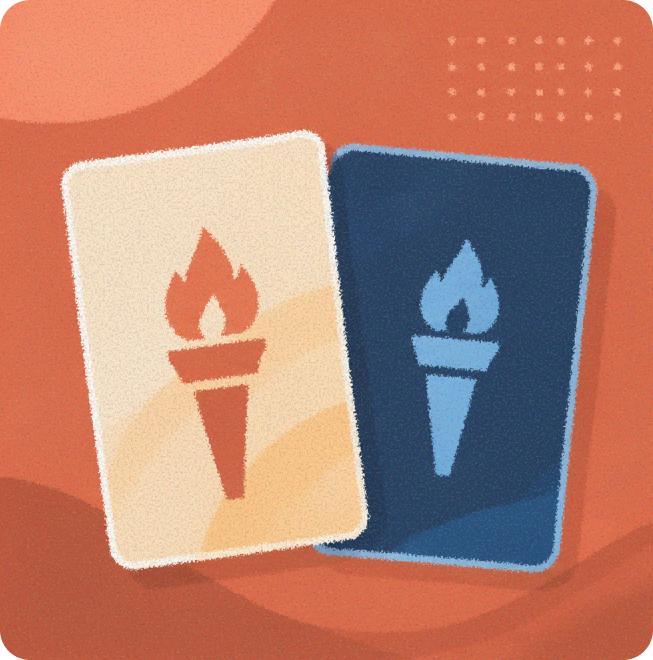
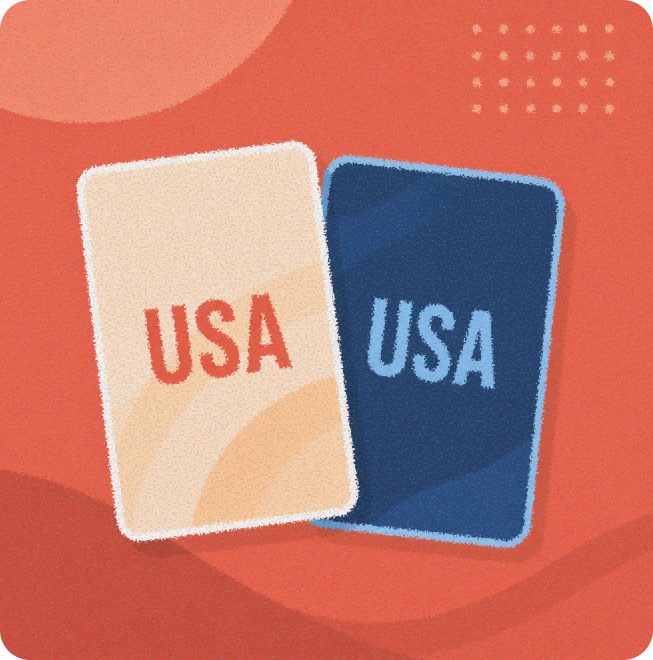
hero image

diff --git a/src/styles.css b/src/styles.css
@@ -3561,10 +3561,94 @@ select {
 
 .landing-hero {
   padding: clamp(64px, 9vw, 100px) 0;
-  background:
-    radial-gradient(circle at 20% 30%, var(--paper-accent-a), transparent 42rem),
-    radial-gradient(circle at 82% 60%, var(--paper-accent-b), transparent 36rem),
-    var(--paper-2);
+  background: var(--surface);
+}
+
+.landing-hero .landing-section-inner {
+  max-width: none;
+  padding: 0;
+}
+
+.landing-hero-container {
+  position: relative;
+  width: 90vw;
+  margin: 0 auto;
+  border-radius: 28px;
+  overflow: hidden;
+  min-height: clamp(320px, 36vw, 520px);
+}
+
+.landing-hero-graphic {
+  position: absolute;
+  inset: 0;
+  width: 100%;
+  height: 100%;
+  object-fit: cover;
+  object-position: right center;
+  display: block;
+}
+
+.landing-hero-content {
+  position: relative;
+  z-index: 1;
+  display: flex;
+  flex-direction: column;
+  align-items: flex-start;
+  background: rgba(235, 224, 199, 0.88);
+  border: 1.5px solid #EBE0C7;
+  border-radius: 18px;
+  padding: clamp(24px, 3.5vw, 44px) clamp(20px, 3vw, 40px);
+  backdrop-filter: blur(4px);
+  margin: clamp(28px, 5vw, 52px) clamp(24px, 5vw, 52px);
+  max-width: min(50%, 520px);
+}
+
+.landing-hero-content .landing-eyebrow {
+  color: #5a6060;
+  margin-bottom: 12px;
+}
+
+.landing-hero-content .landing-hero-title {
+  color: #131a1a;
+  max-width: 14ch;
+}
+
+.landing-hero-content .landing-hero-body {
+  color: #3a4444;
+  max-width: 38ch;
+}
+
+.landing-hero-content .ghost-button {
+  color: #131a1a;
+  border-color: rgba(19, 26, 26, 0.45);
+  background: transparent;
+}
+
+.landing-hero-content .ghost-button:hover {
+  background: rgba(19, 26, 26, 0.08);
+  border-color: #131a1a;
+}
+
+html[data-surface="blacktop"] .landing-hero-content .primary-button {
+  background: #131a1a;
+  color: #EBE0C7;
+  border-color: #131a1a;
+}
+
+html[data-surface="blacktop"] .landing-hero-content .ghost-button {
+  background: transparent;
+  color: #131a1a;
+  border-color: rgba(19, 26, 26, 0.55);
+}
+
+html[data-surface="blacktop"] .landing-hero-content .ghost-button:hover {
+  background: rgba(19, 26, 26, 0.1);
+}
+
+@media (max-width: 1100px) {
+  .landing-hero-content {
+    max-width: calc(100% - clamp(48px, 10vw, 104px));
+  }
 }
 
 .landing-eyebrow {

diff --git a/src/main.jsx b/src/main.jsx
@@ -743,13 +743,18 @@ function LandingPage({ onNavigate, onLogin, darkMode, onToggleDarkMode }) {
       <TopNav page="landing" view={null} onViewChange={() => {}} onNavigate={onNavigate} onLogin={onLogin} darkMode={darkMode} onToggleDarkMode={onToggleDarkMode} />
 
       <section className="landing-hero">
-      <div className="landing-section-inner">
-      <p className="eyebrow landing-eyebrow">Team USA Discovery</p>
-            <h1 className="landing-hero-title">Explore Team USA by State</h1>
-            <p className="landing-hero-body">Click a state to discover the number of athletes, minigames, and collect cards.</p>
-          <div className="landing-cta-row">
-            <button className="primary-button" type="button" onClick={() => onNavigate("app", "explorer")}>Explore the Map</button>
-            <button className="ghost-button" type="button" onClick={() => onNavigate("app", "collection")}>View Collection</button>
+        <div className="landing-section-inner">
+          <div className="landing-hero-container">
+            <img className="landing-hero-graphic" src="/assets/graphics/Hero Graphic.png" alt="" aria-hidden="true" />
+            <div className="landing-hero-content">
+              <p className="eyebrow landing-eyebrow">Team USA Discovery</p>
+              <h1 className="landing-hero-title">Explore Team USA by State</h1>
+              <p className="landing-hero-body">Click a state to discover the number of athletes, minigames, and collect cards.</p>
+              <div className="landing-cta-row">
+                <button className="primary-button" type="button" onClick={() => onNavigate("app", "explorer")}>Explore the Map</button>
+                <button className="ghost-button" type="button" onClick={() => onNavigate("app", "collection")}>View Collection</button>
+              </div>
+            </div>
           </div>
         </div>
       </section>
